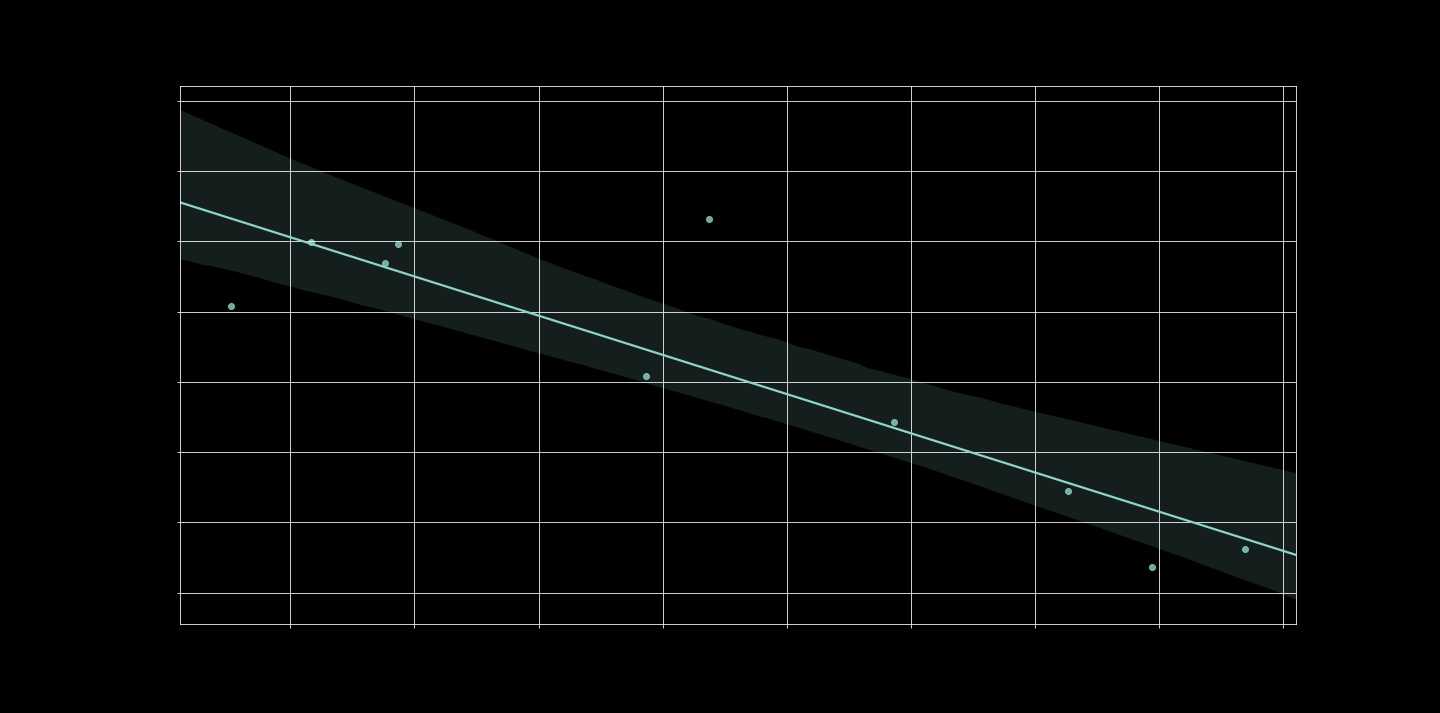
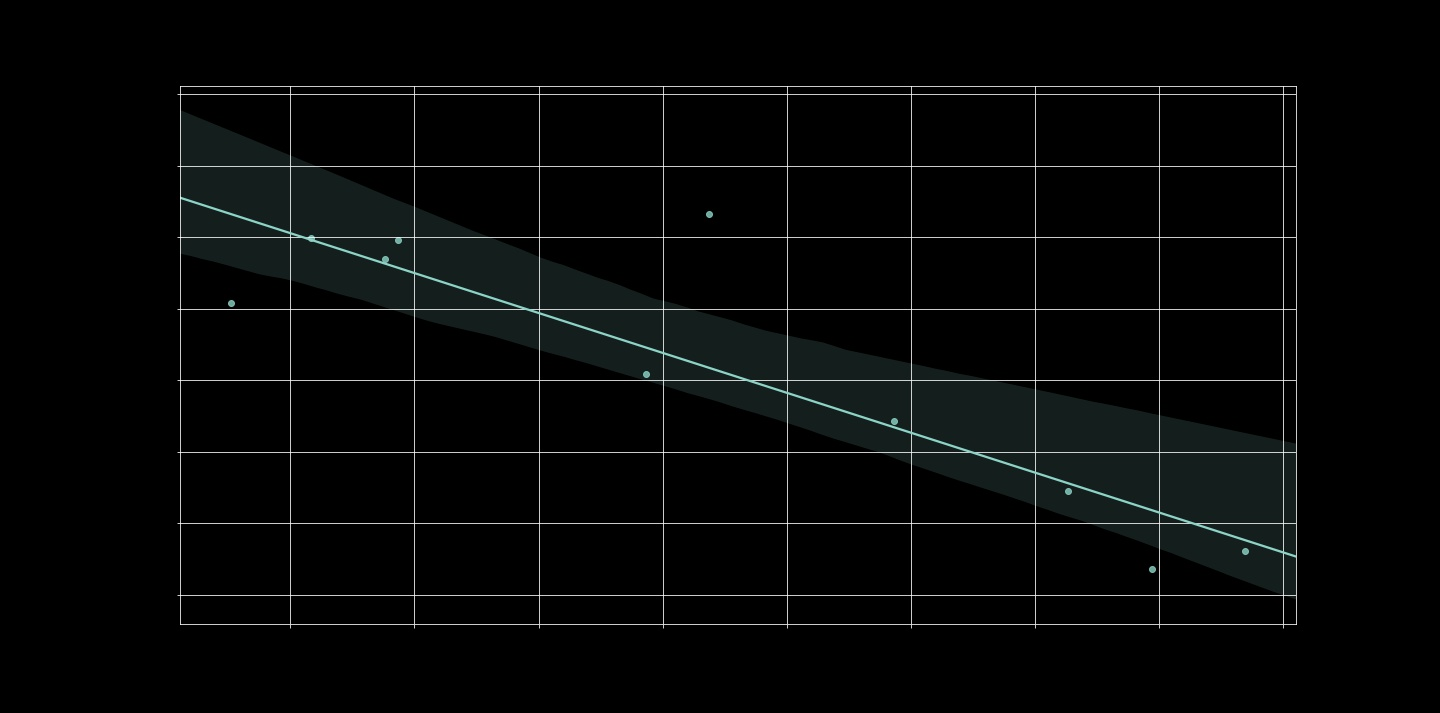
Added one file (correlation)

diff --git a/Rajat/hk_correlation.py b/Rajat/hk_correlation.py
@@ -1,0 +1,65 @@
+
+#%%
+import pandas as pd
+import numpy as np
+import matplotlib.pyplot as plt
+import seaborn as sns
+%matplotlib qt5
+
+#%%
+file = 'table71.xls'
+df = pd.read_excel(file, skiprows = 8)
+df = df.iloc[2:8]  # For years 2013- 2018
+df = df.rename(columns = {'Year/Month':'Years','道路交通意外總宗數 (1)\nTotal Traffic Accidents (1)':'Traffic Accidents'})
+
+#%%
+file = 'table21.xls'
+data = pd.read_excel(file, sheet_name = 0, skiprows = 5)
+data = data.iloc[4:10] ## For years 2013-2018
+data = data.rename(columns = {'Unnamed: 10':'Ridership1','小計\nSub-total':'Ridership2'})
+
+#%%
+## Traffic Accidents/Ridership correlation
+df_new = pd.DataFrame({'Annual Ridership (in thousands)': list(data['Ridership1'].values + data['Ridership2'].values),
+                        'Traffic Accidents': list(df['Traffic Accidents'].values)
+                    }, index = None)
+
+df_new = df_new.set_index(df['Years'].values)
+
+#%%
+#Alternate dataset
+file = 'table11.xls'
+df_2= pd.read_excel(file, skiprows = 8)
+df_2 = df_2.iloc[4:15]  # For years 2007- 2017
+df_2 = df_2.rename(columns = {'Unnamed: 2':'Years','交通乘客人次 (1) (3) (4) ':'Avg. daily ridership',
+'Casualties Involved in Road Accidents (1)':'Killed','Unnamed: 20':'Injured', 'Unnamed: 22':'Killed1','Unnamed: 23':'Injured1'})
+
+#%%
+df_new2 = pd.DataFrame({'Annual Ridership (in thousands)': list(df_2['Avg. daily ridership'].values*365/1000),
+                        'Traffic Accidents': list(((df_2['Killed1'].values)+ df_2['Injured1'].values)*7500000/1000)
+                    }, index = None)  ## HK population is taken as 7.5 million
+
+df_new2 = df_new2.set_index(df_2['Years'].values)
+
+#%%
+def create_correlation_plot(df):
+    """Create seaborn correlation plot for input data frame.
+
+    Arguments:
+        df {pd Dataframe} -- Dataframe with index as years and column1=data1 and column2=data2.
+    """
+    xdata = df.iloc[:, 0]
+    ydata = df.iloc[:, 1]
+    plt.clf
+    plt.figure(figsize=(20, 18))
+    sns.regplot(xdata, ydata, marker='o', data=df.index)
+    plt.title(f'{df.columns[0]} vs. {df.columns[1]}', color='k')
+    plt.xlabel(f'{df.columns[0]}', color='k')
+    plt.ylabel(f'{df.columns[1]}', color='k')
+    plt.grid(True)
+    plt.xticks(color='k')
+    plt.yticks(color='k')
+    plt.show()
+    plt.savefig(f'corr{df.columns[0][0]}v{df.columns[1][0]}.jpg')
+
+#%%
